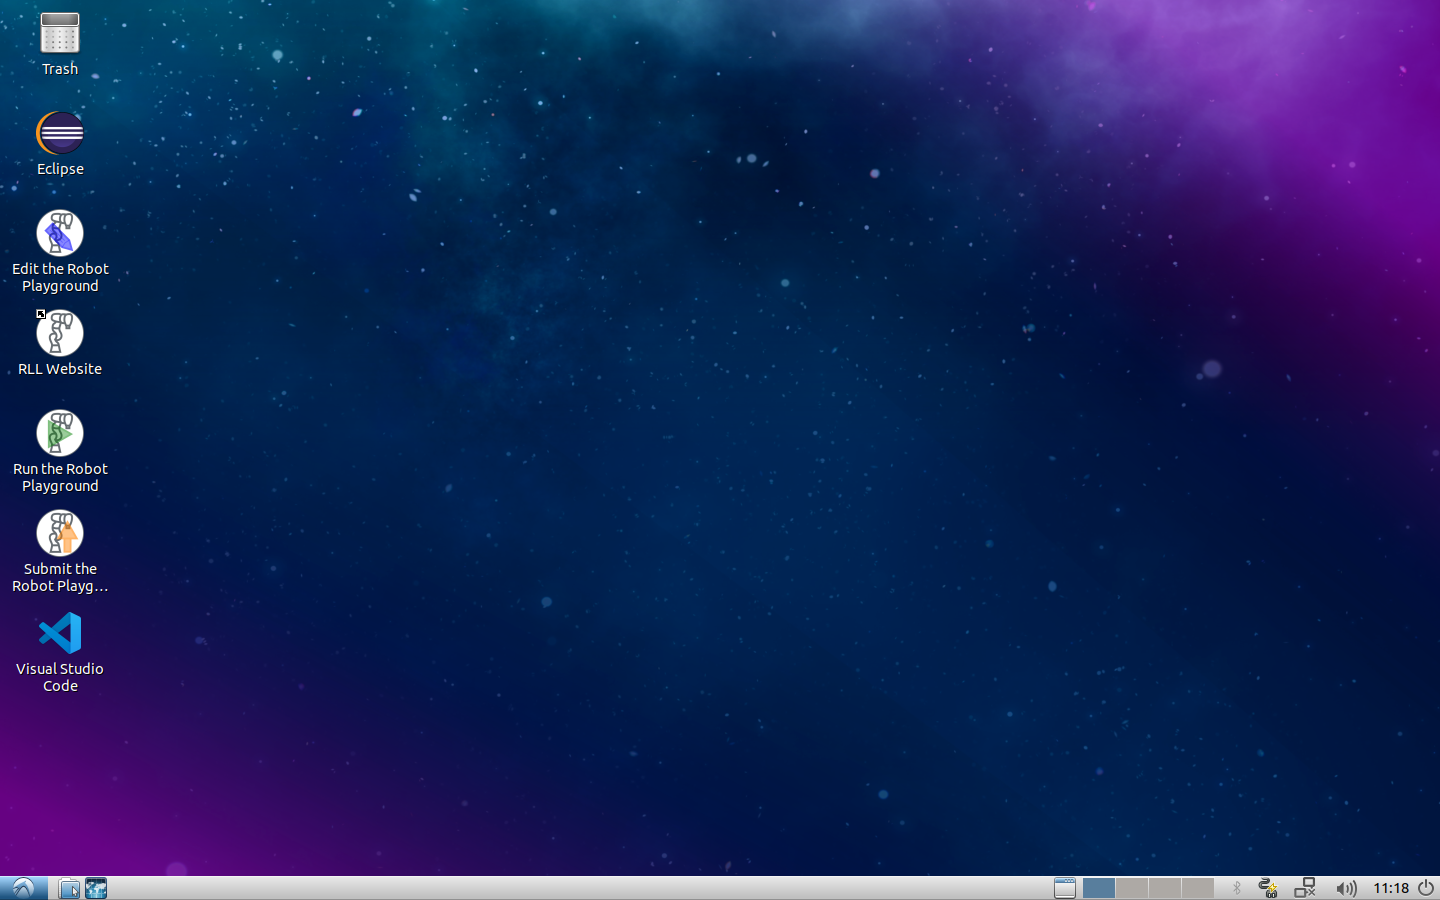
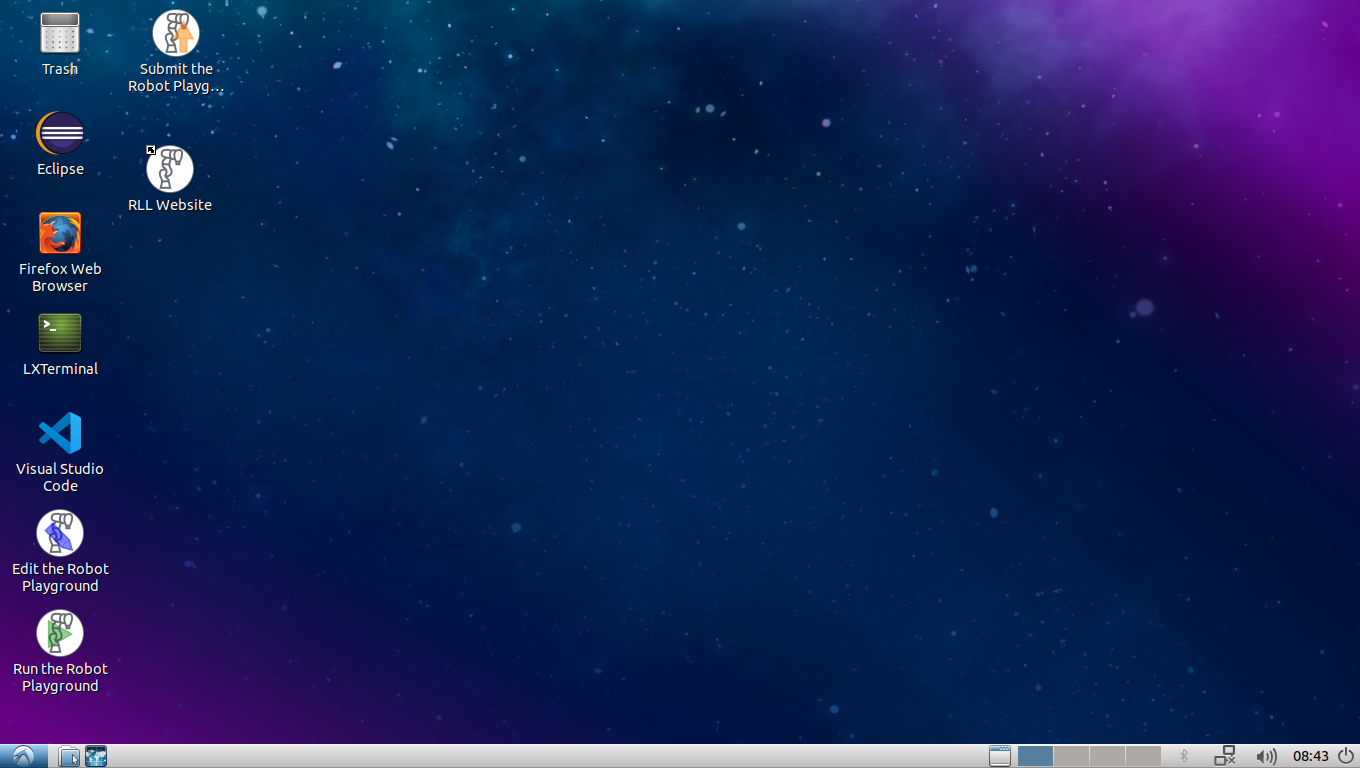
Update the RLL VM documentation with improvements on how to install VirtualBox and some basic usage instructions

diff --git a/docs/general/vm_setup.rst b/docs/general/vm_setup.rst
@@ -1,63 +1,92 @@
 RLL virtual machine
 ===================
 
-If you don't want to install the RLL environment manually you can use the provided `VirtualBox <https://virtualbox.org>`_ VM. The VM contains a preconfigured development environment
+If you don't want to install the RLL environment manually you can use the
+provided VirtualBox VM. The VM contains a preconfigured development environment
 and is based on Lubuntu 18.04 with ROS Melodic Morenia.
 
 
 Installation
 --------------
 
-1. Download the RLL VM packaged as an `.ova` file `here <https://rll-dl.ipr.kit.edu/vm/rll-vm-lubuntu-18.04.ova>`_.
+0. If you do not have VirtualBox installed, download and install `VirtualBox <https://www.virtualbox.org/>`_.
+   You can get more information on how to install and configure from the `Virtual Box Manual <https://www.virtualbox.org/manual/>`_.
 
-2. Start VirtualBox and import the VM by choosing `File->Import Appliance`.
+1. Download the RLL Virtual Machine (VM) packaged as an `.ova` file
+   `here <https://rll-dl.ipr.kit.edu/vm/rll-vm-lubuntu-18.04.ova>`_.
+
+2. Start VirtualBox and import the downloaded `.ova` file by choosing:
+   `File->Import Appliance` from the menu.
+
 
 3. Select the downloaded `.ova` file and adjust the machine settings if
-   required.
+   required. The defaults should be fine and can be adjusted later.
 
 4. Click `Import`, this will take a while.
 
-5. By default the VM has only 8MB of `Video Memory`. It is highly recommended
-   to increase that value. Open the VM settings, go to the `Display Settings`
+5. By default the VM uses only 8MB of `Video Memory`. It is highly recommended
+   to increase this value. Open the VM settings, go to the `Display Settings`
    and increase the `Video Memory` e.g. up to `128MB`. You can also tick the
    `Enable 3D Acceleration` checkbox. If you later notice that the VM crashes
    or has display issues un-tick the checkbox.
 
-6. If you have completed these steps VM is setup and can be powered on.
+6. If you have completed these steps the VM is setup and can be powered on.
 
 .. note:: The default username and password are both: **rll**
 
 .. note:: The VM is configured to use a German keyboard layout by default.
 
+.. note:: You **cannot** change the virtual machine's  settings while the VM instance is running.
+          If you want to change the settings you need to first power if off.
+
 
 Using the VM
 ------------
 
-The VM contains an already initialized catkin workspace in
-:code:`~/rll_ws` with the :doc:`Robot Playground project <project_robot_playground>`
-set up and ready to run. The VM comes with some handy desktop shortcuts
-to make launching and editing the robot playground project more convenient.
+The VM contains a fully functional OS based on Lubuntu 18.04,
+that is Ubuntu 18.04 with the LXDE desktop environment.
+
+You can find all installed programs via the application menu in the bottom
+left of your VM desktop. You can launch the file explorer and web browser
+by clicking the icons next to it. You will often need to start a Terminal.
+The easiest way to do so is to use the keyboard shortcut `Ctrl + Alt + T`.
+
+To power off the VM you can click on the icon in the bottom right and select
+`Shutdown` in the dialog that will appear.
+Alternatively you can shutdown the VM by closing the VirtualBox window and
+selecting `Power off the machine` in the dialog.
 
 .. figure:: _static/rll_vm_desktop.png
     :align: center
     :figclass: align-center
 
-    The VM with desktop shortcuts on the left to edit, run and submit the robot playground project.
+    The VM desktop with the application menu in the bottom left
+    and shortcuts on desktop to edit, run and submit the robot playground project.
 
 
-Desktop shortcuts
-^^^^^^^^^^^^^^^^^
+ROS workspace
+^^^^^^^^^^^^^
+
+The VM contains an already initialized catkin workspace in the :code:`~/rll_ws`
+folder with the :doc:`Robot Playground project <project_robot_playground>`
+set up and ready to run. The VM comes with some handy desktop shortcuts
+to make launching and editing the robot playground project more convenient.
+
+RLL Desktop shortcuts
+^^^^^^^^^^^^^^^^^^^^^
 
 You can use the provided desktop shortcuts to build, edit and submit the
 robot playground project instead of running the commands manually as described
 in the :doc:`documentation <project_robot_playground>`.
 The shortcuts are convenient but your development workflow will probably be
-faster if you execute the commands in a terminal.
+faster if you execute the commands in a terminal. These desktop shortcuts are
+available:
 
 1. **Start the Robot Playground** This will build the project, start the
    simulation and run your code as described in :ref:`playground-run`.
 
-   .. note:: This will open a Tilix terminal displaying the log output and Rviz showing the robot visualization.
+   .. note:: This will open a Tilix terminal displaying the log output and
+      a Rviz window showing the robot visualization.
 
 2. **Edit the Robot Playground** Launches the VS Code editor with the source
    code of the robot playground already opened.
@@ -66,6 +95,10 @@ faster if you execute the commands in a terminal.
 
   .. note:: You still need to setup your API access token first as described in :ref:`making-your-first-submission`
 
+4. **RLL Website** opens Firefox and loads the RLL website. From here you can
+   go to the documentation by clicking the corresponding menu item. If you want
+   to download your API access token, click on
+   `Settings -> Download API access config`.
 
 Editing files
 ^^^^^^^^^^^^^
